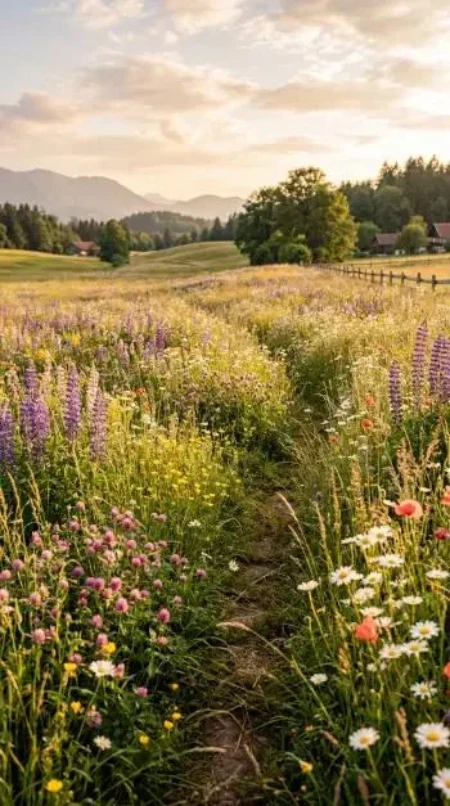
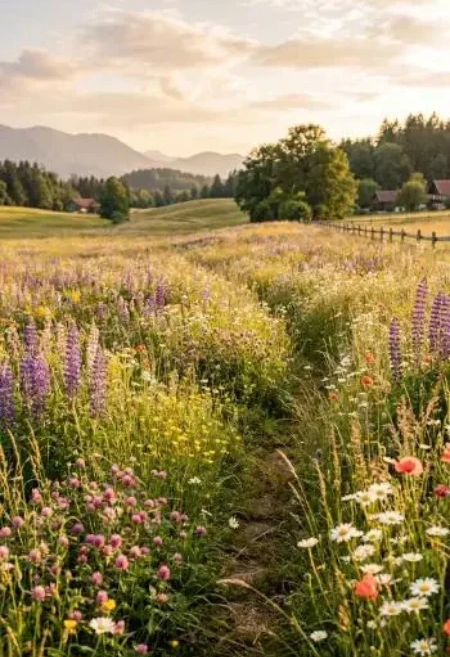
mods img bubbles

diff --git a/css/base.css b/css/base.css
@@ -27,6 +27,7 @@ body {
 
 main {
     background: var(--background-color);
+    padding-bottom: 2rem;
 }
 
 h1 {
@@ -77,7 +78,7 @@ p {
 .about-card, .story-card,
 .qualification-card, .partners-card {
     background: white;
-    border-radius: 14px;
+    border-radius: 1rem;
     padding: .5rem;
     max-width: 600px;
     margin: auto;
@@ -113,4 +114,19 @@ p {
         margin: 0 auto;
     }
     
+}
+
+@media (min-width: 500px) {
+
+    .consultation-image, .nature-image-inner, .about-image-inner {
+        max-width: 440px;
+        margin: auto;
+        border-radius: 1rem;
+        box-shadow: 0 6px 18px rgba(0,0,0,.1);
+    }
+    
+    .overlay {
+        max-width: 340px;
+    }
+
 }

diff --git a/css/home.css b/css/home.css
@@ -151,7 +151,6 @@ article img {
 ========================= */
 .nature-image {
   width: 100%;
-  background: var(--background-color); /* fallback */
   display: flex;
   justify-content: center;
 }
@@ -159,7 +158,7 @@ article img {
 .nature-image-inner {
   width: 100%;
   max-width: 1200px; /* 👈 limite la “zone d’image” */
-  height: 100vh;
+  height: 80vh;
 
   background-image: url("../images/river-green-nature.webp");
   background-size: cover;

diff --git a/css/a-propos.css b/css/a-propos.css
@@ -36,7 +36,7 @@
 .about-image-inner {
   width: 100%;
   max-width: 1400px; /* 👈 limite la “zone d’image” */
-  height: 100vh;
+  height: 80vh;
 
   background-image: url("../images/nature-top-view.webp");
   background-size: cover;

diff --git a/quand-consulter.html b/quand-consulter.html
@@ -212,7 +212,7 @@
 
     <section class="consultation-image">
 
-        <div class="quote-bubble overlay">
+        <div class="overlay">
 
             <p class="quote">
                 « Que ton aliment soit ta seule médecine »

diff --git a/css/quand-consulter.css b/css/quand-consulter.css
@@ -47,13 +47,3 @@
     inset: 0;
     background: rgba(255, 255, 255, 0.15);
 }
-
-.quote-bubble p {
-    font-size: 1.2rem;
-    margin-bottom: 10px;
-}
-
-.quote-bubble span {
-    font-style: italic;
-    opacity: 0.8;
-}
